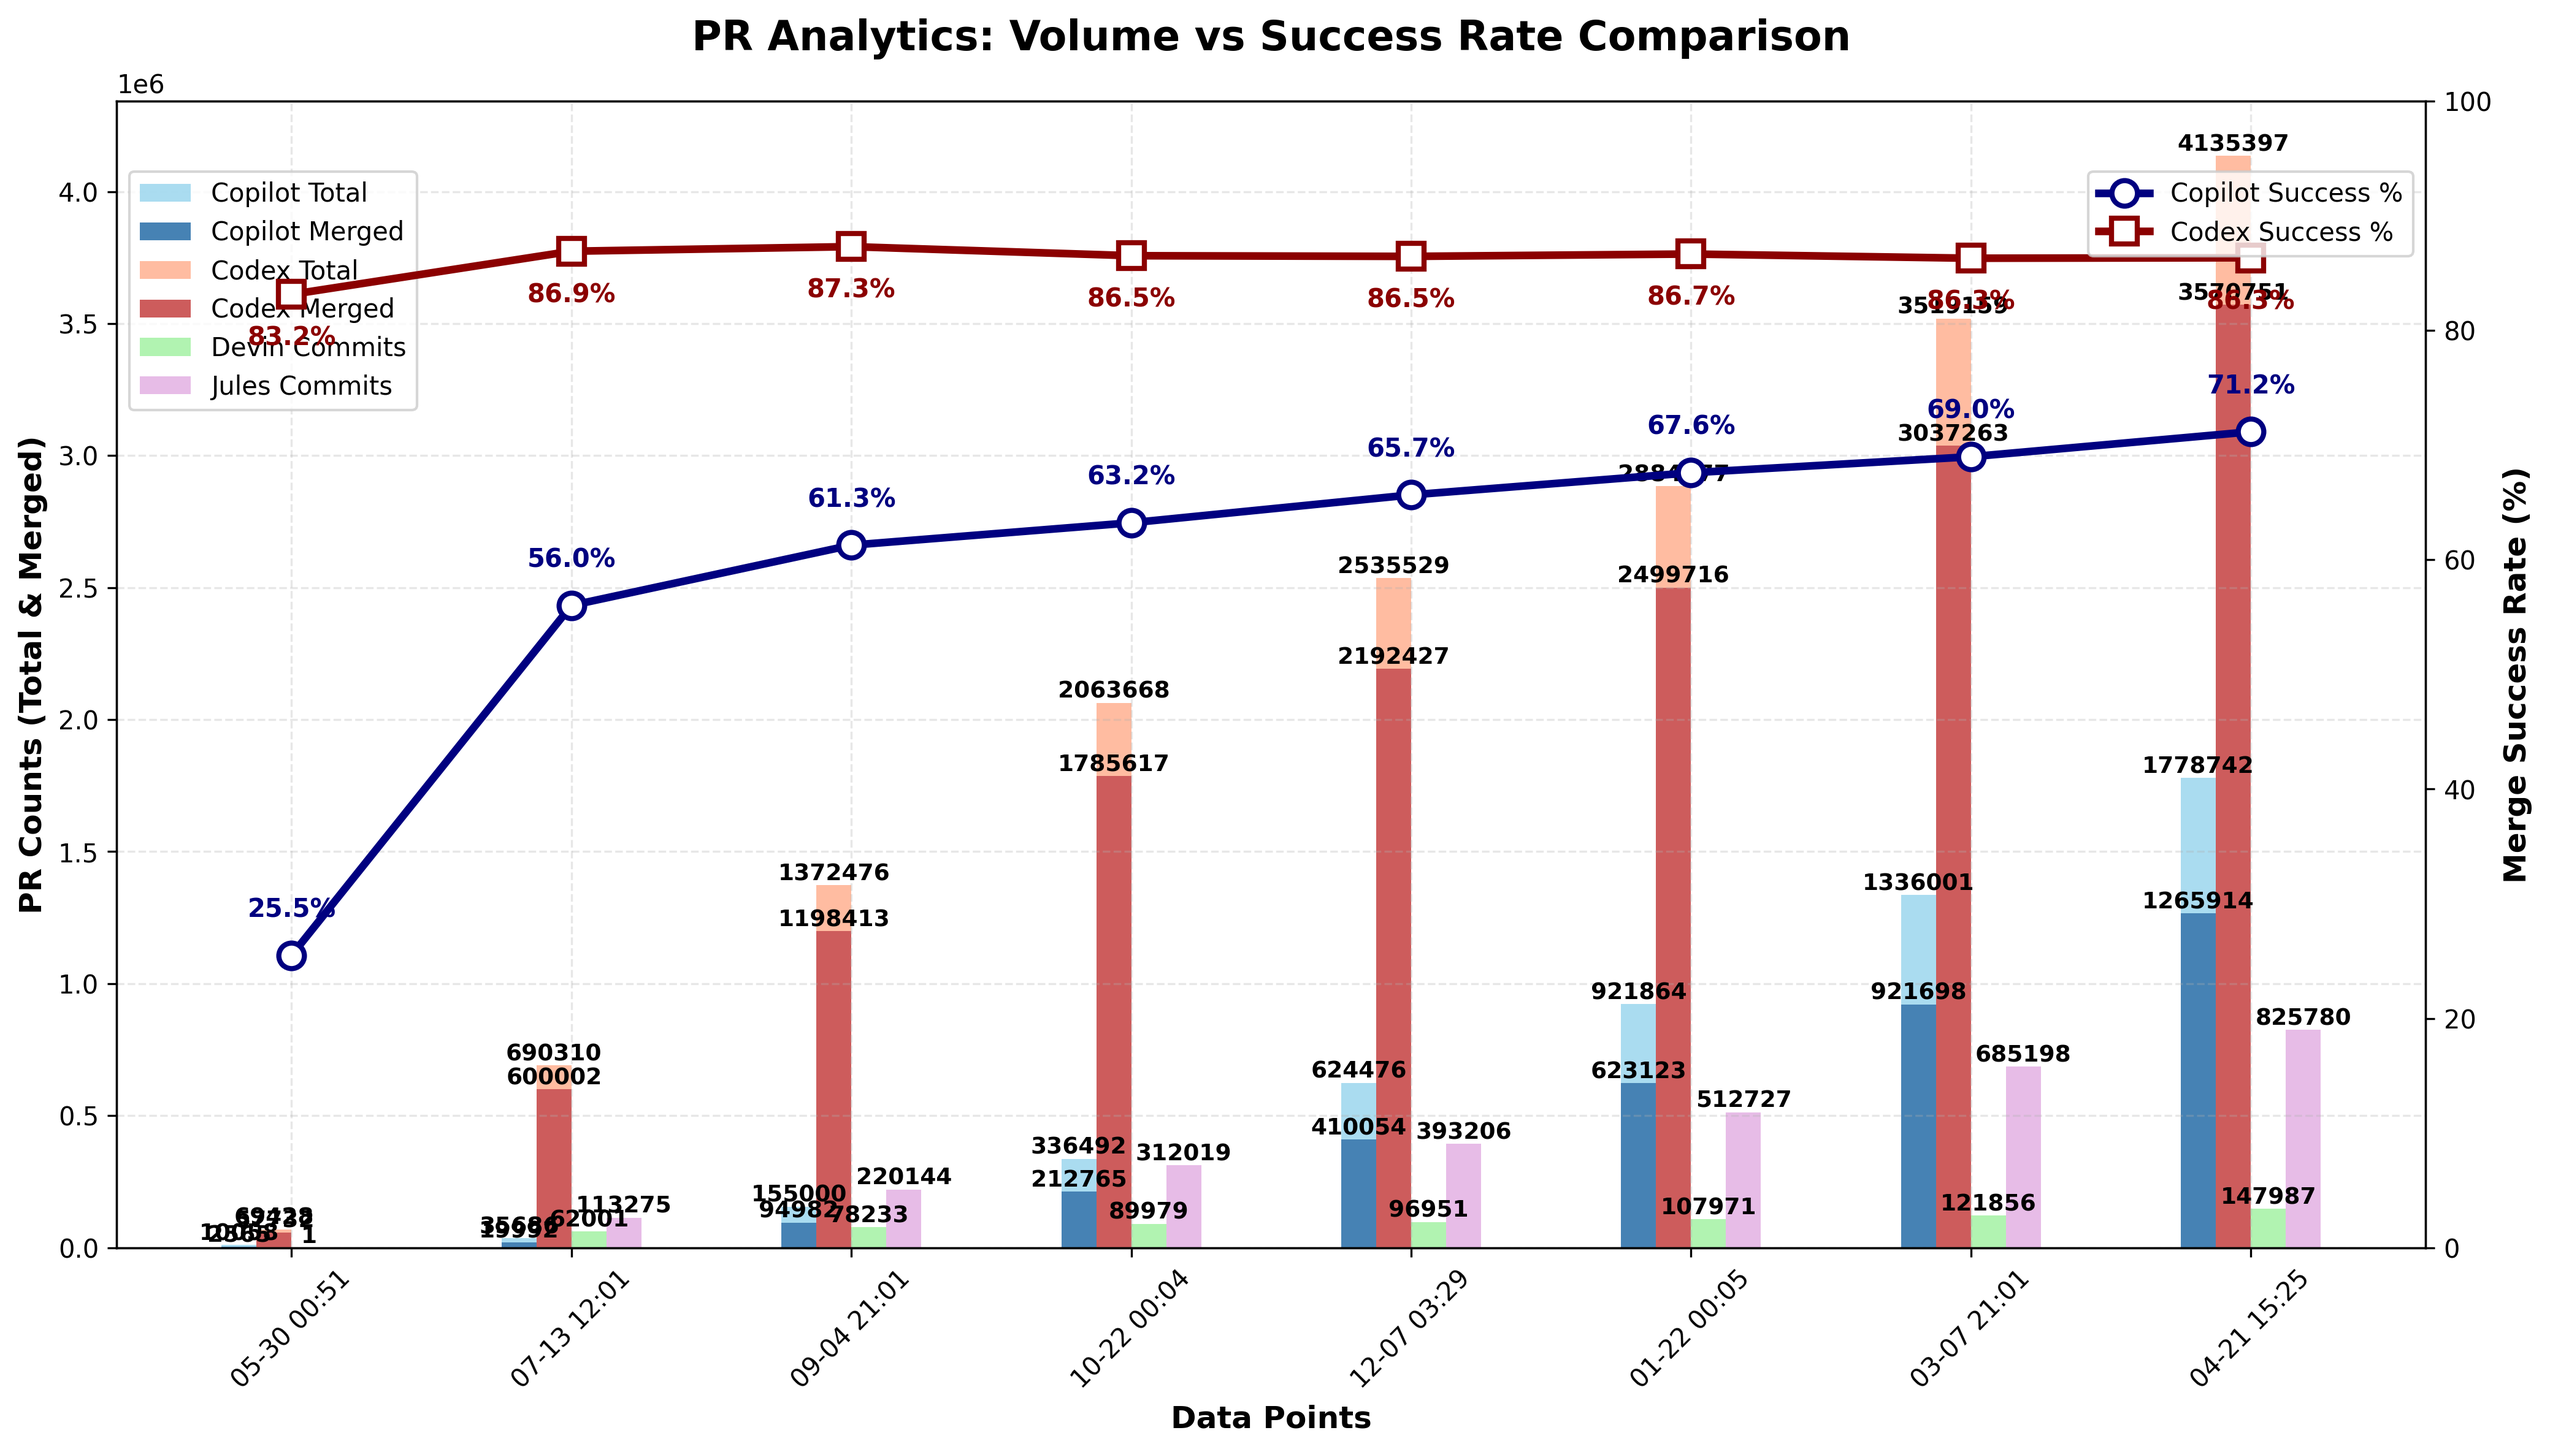
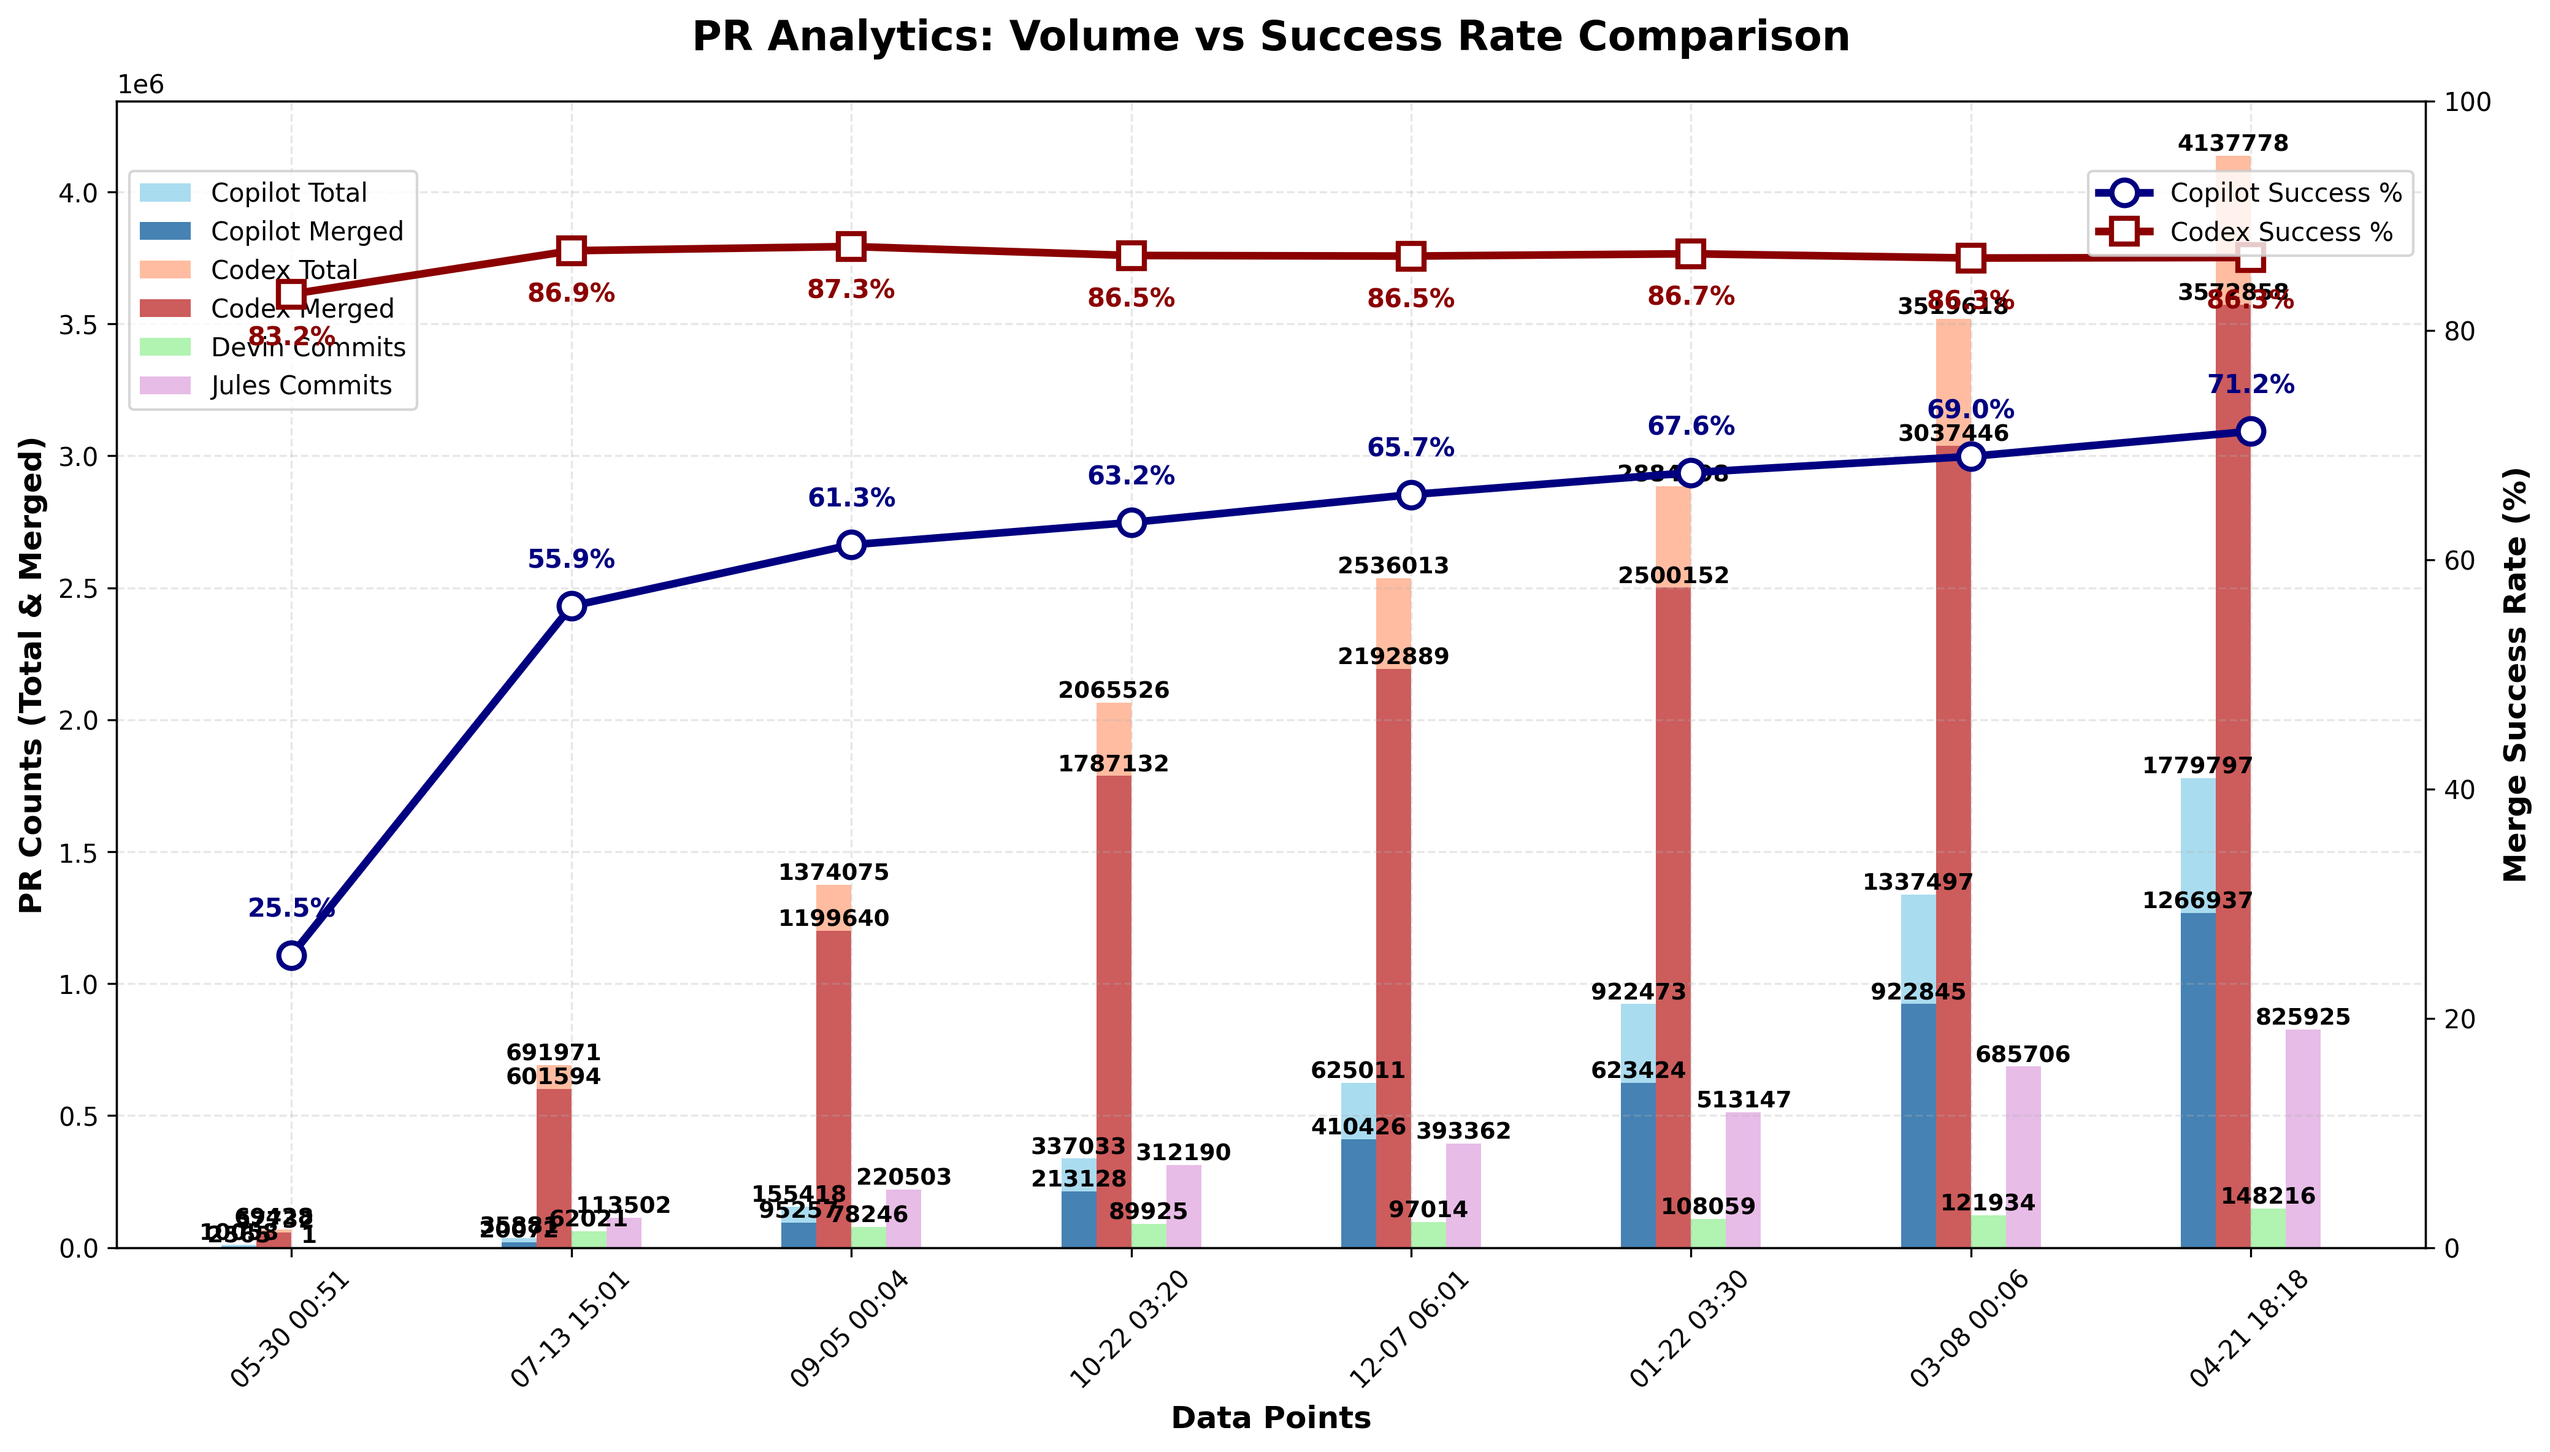
chore: update PR‑approval chart

diff --git a/docs/index.html b/docs/index.html
@@ -2539,6 +2539,7 @@
                         <td>N/A</td>
                         <td>N/A</td>
                         <td>N/A</td>
+                        <td>N/A</td>
                     </tr>
                     <tr>
                         <td>Codex</td>
@@ -5036,27 +5037,28 @@
                         <td>N/A</td>
                         <td>N/A</td>
                         <td>N/A</td>
+                        <td>N/A</td>
                     </tr>
                 <tr>
                         <td>Devin</td>
                         <td>N/A</td>
                         <td>N/A</td>
                         <td>N/A</td>
-                        <td>147,987</td>
+                        <td>148,216</td>
                     </tr>
                     <tr>
                         <td>Jules</td>
                         <td>N/A</td>
                         <td>N/A</td>
                         <td>N/A</td>
-                        <td>825,780</td>
+                        <td>825,925</td>
                     </tr>
                     </tbody>
             </table>
         </section>
 
         <footer>
-            <p>Last updated: <span id="last-updated">April 21, 2026 15:25 UTC</span></p>
+            <p>Last updated: <span id="last-updated">April 21, 2026 18:18 UTC</span></p>
             <p><a href="https://github.com/aavetis/ai-pr-watcher">View on GitHub</a></p>
         </footer>
     </div>

diff --git a/README.md b/README.md
@@ -19,7 +19,7 @@ Explore the GitHub search queries used:
 
 | Service | Total PRs | Merged PRs | Merge Rate | Total Commits |
 | ------- | --------- | ---------- | ---------- | ------------- |
-| Copilot | 1,778,742 | 1,265,914 | 71.17% | N/A           |
-| Codex   | 4,135,397 | 3,570,751 | 86.35% | N/A           |
-| Devin   | N/A       | N/A        | N/A        | 147,987 |
-| Jules   | N/A       | N/A        | N/A        | 825,780 |
+| Copilot | 1,779,797 | 1,266,937 | 71.18% | N/A           |
+| Codex   | 4,137,778 | 3,572,858 | 86.35% | N/A           |
+| Devin   | N/A       | N/A        | N/A        | 148,216 |
+| Jules   | N/A       | N/A        | N/A        | 825,925 |
